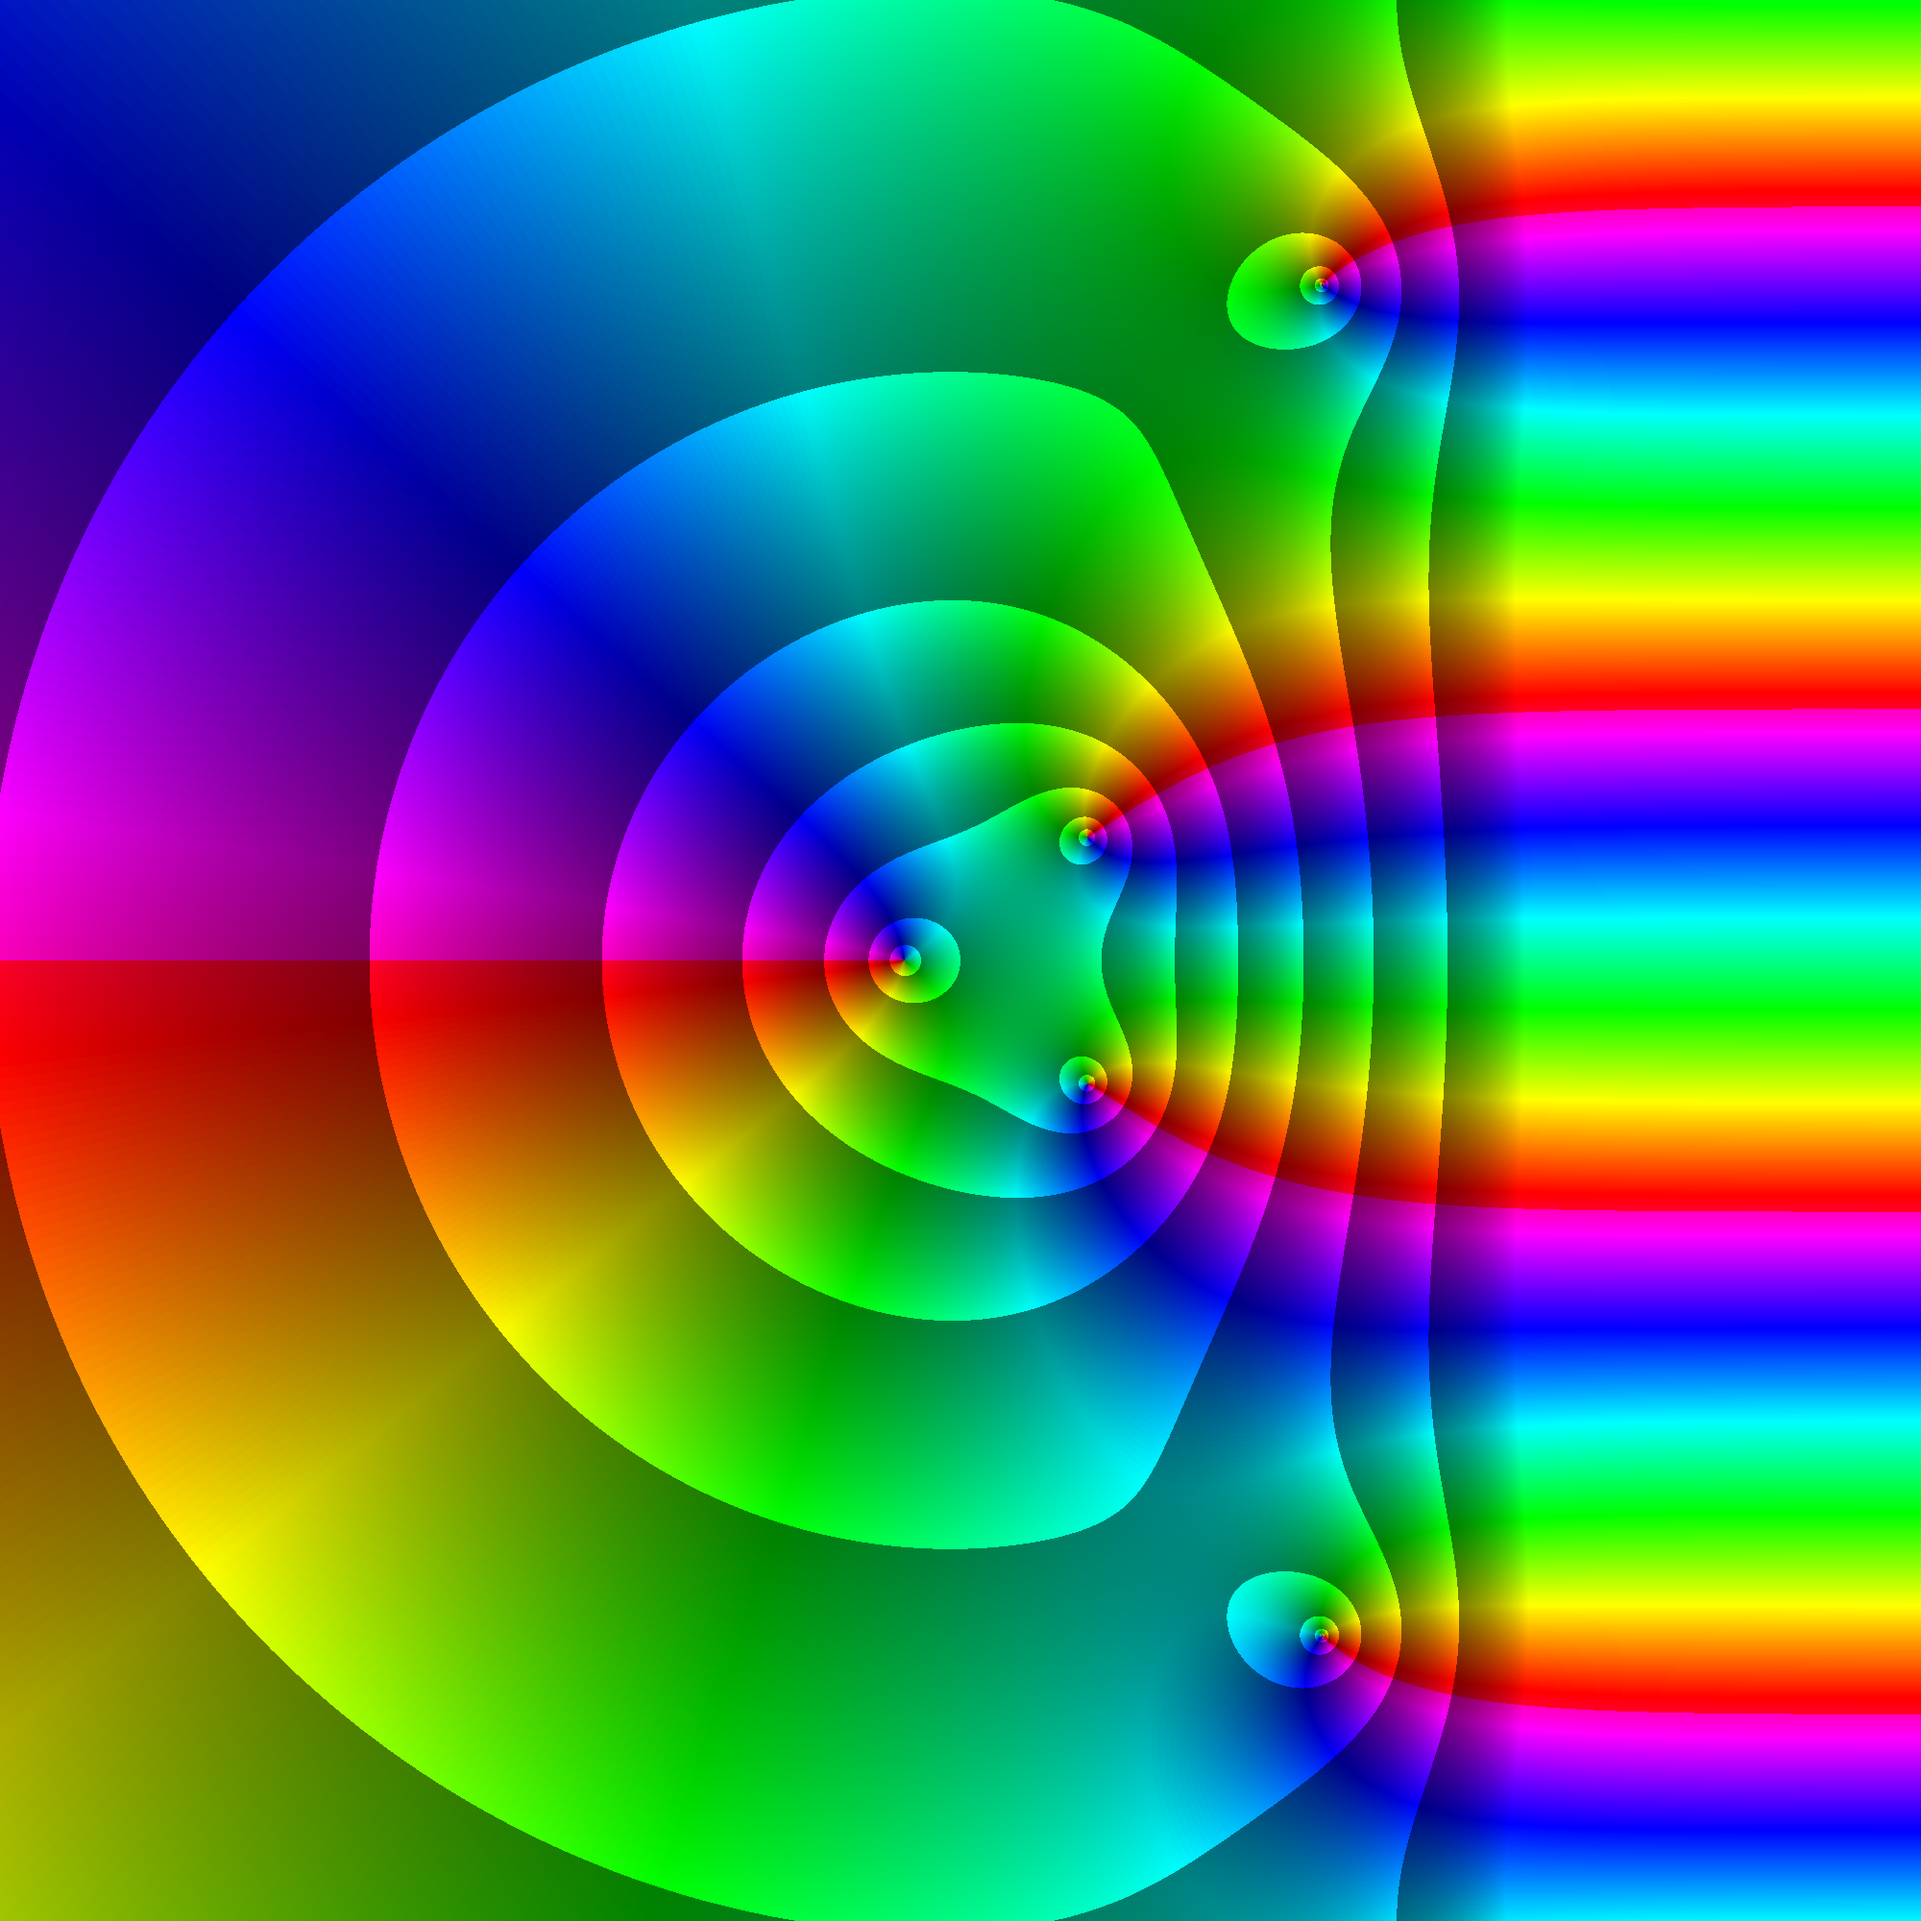
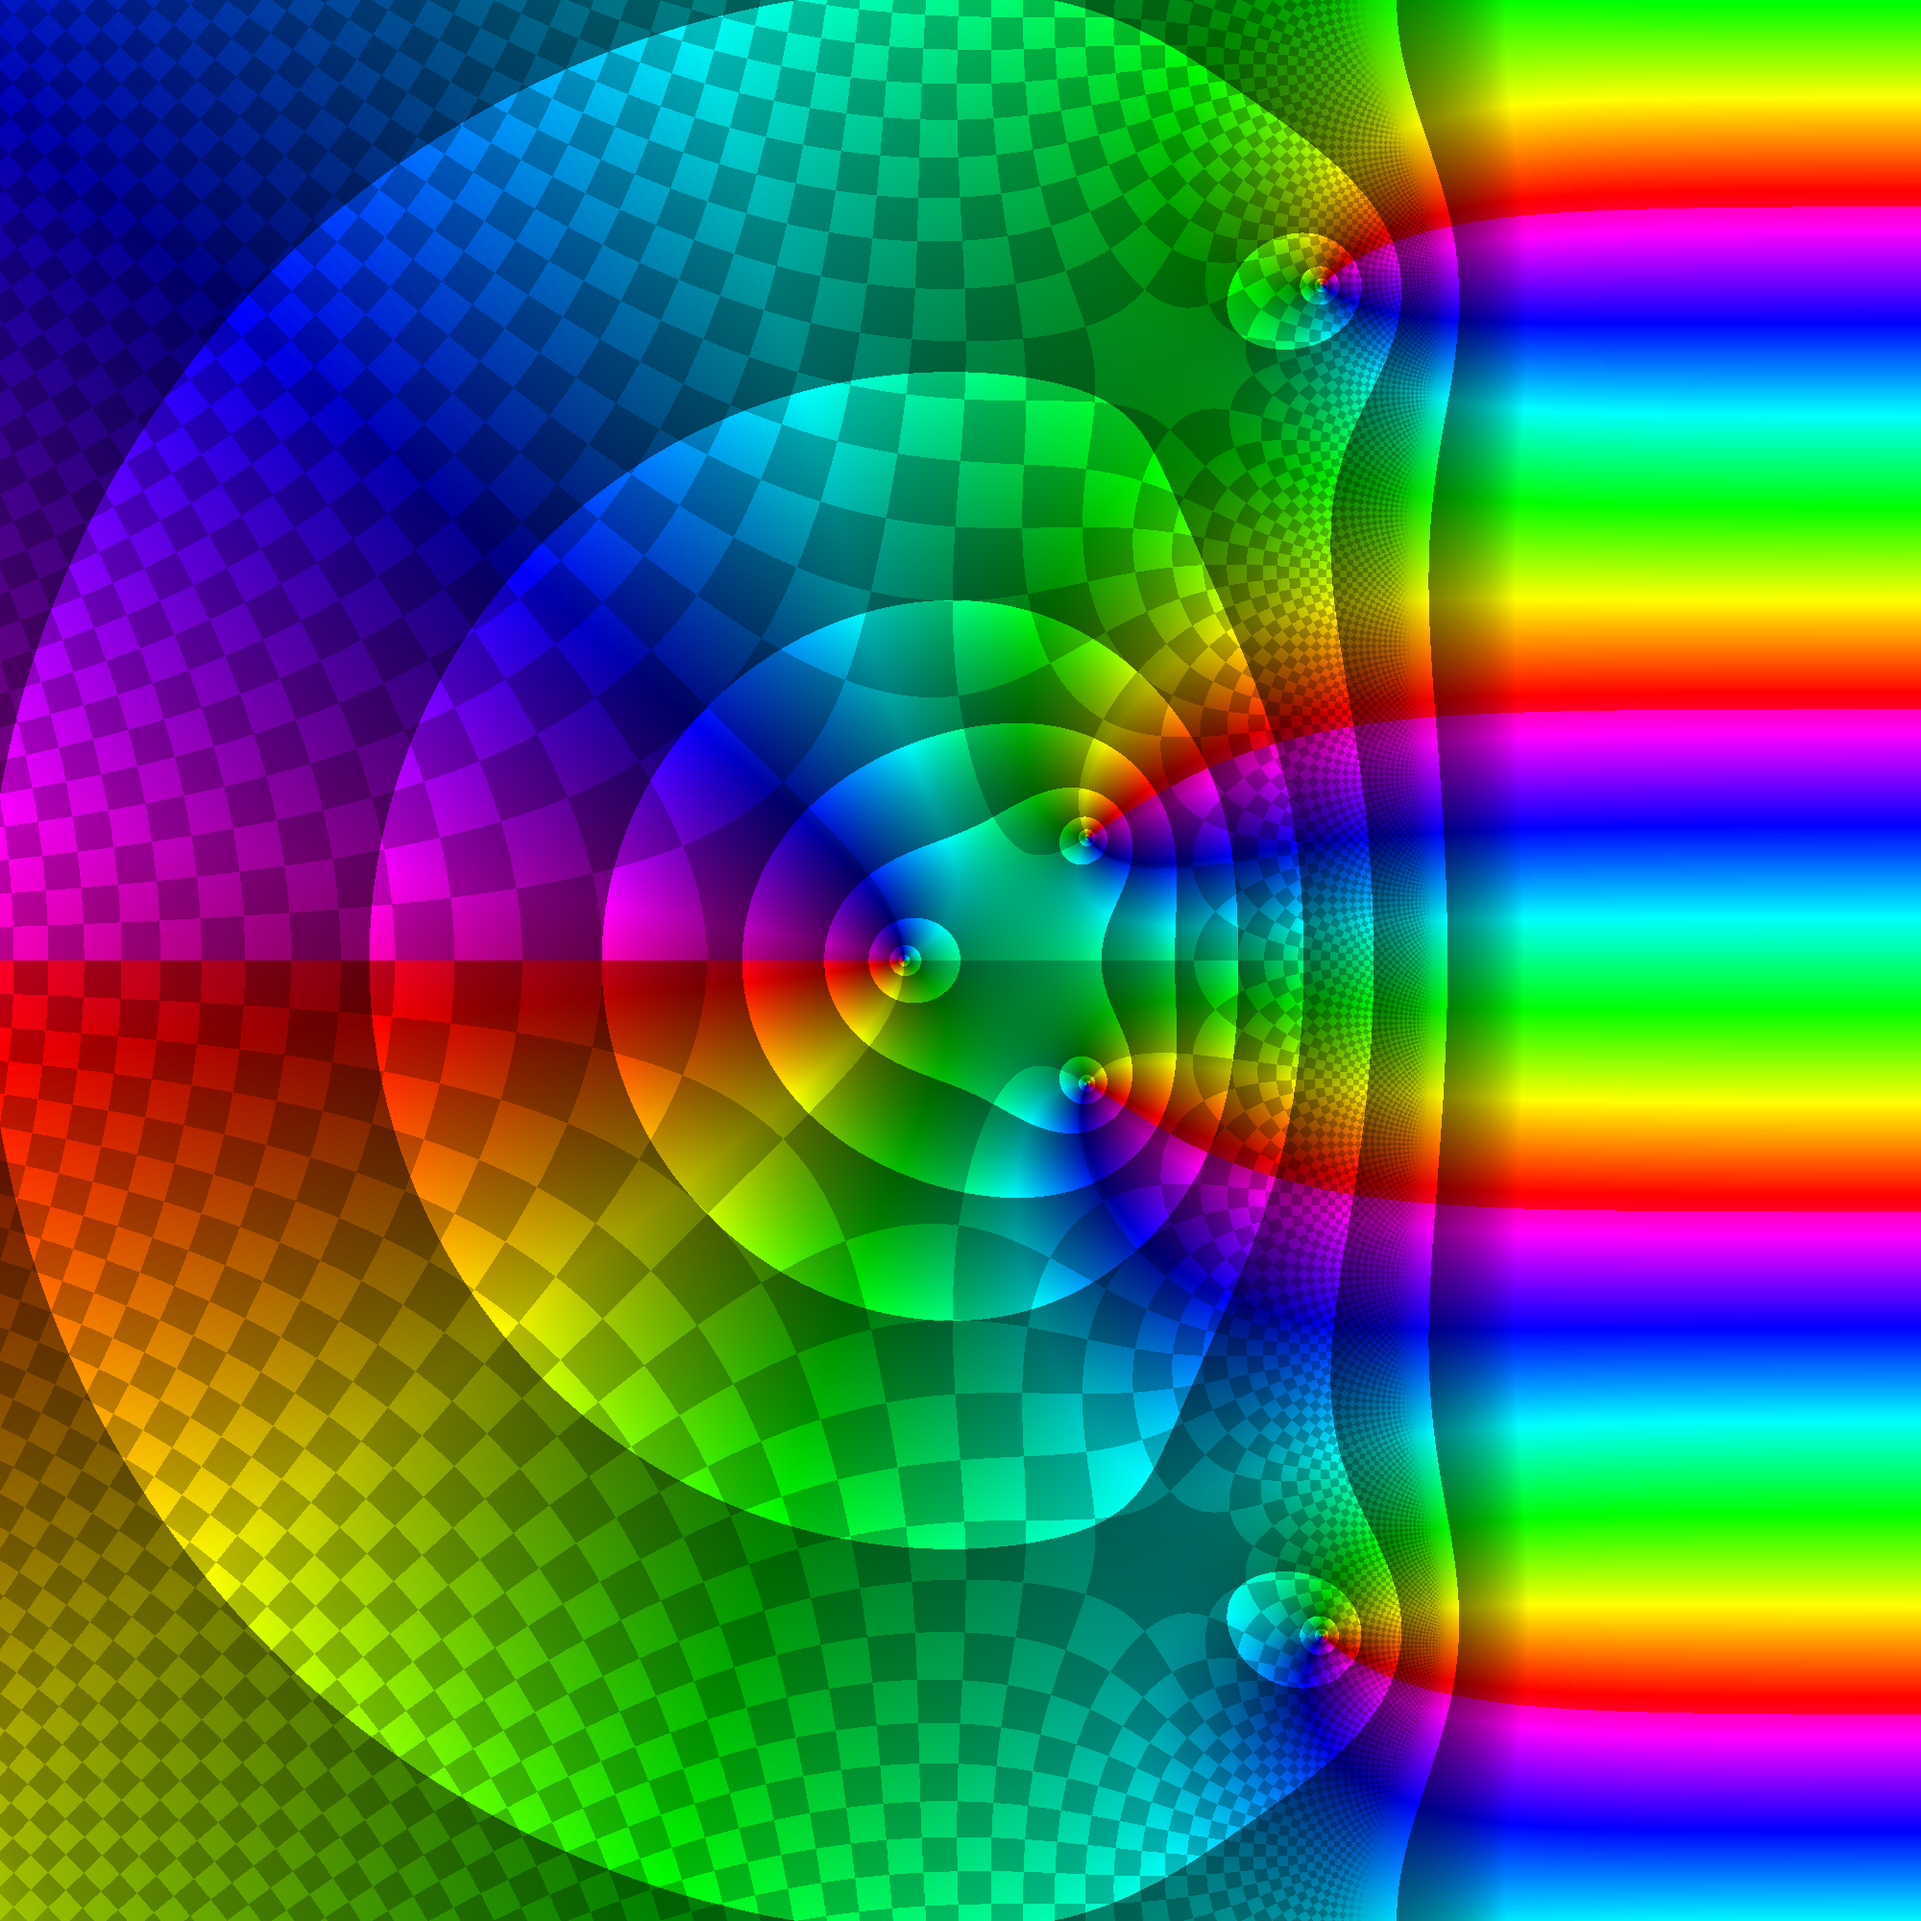
Finish new feature

diff --git a/complex_plot.py b/complex_plot.py
@@ -44,14 +44,16 @@ def normalize_brightness(abs_val, levels, min_v=0.1):
 	return np.clip(v, 0, 1)
 
 # The main function. Plots the given function and exports it to a PNG
-def export_with_custom_cmap(
+def complex_plot(
 		f, # The function
 		levels, # The levels of absolute values that define the brightness discontinuities
 		cmap_name='viridis',
 		filename="complex_data.png",
 		xrange=(-12, 12),
 		yrange=(-12, 12),
-		res=2000, # Number of points on each coordinate
+		savefig = True, # Save the resulting picture or not
+		res=2000, # Number of points on each coordinate,
+		min_v = 0.5, # Minimum brightness
 		grid_mapping = True, # Yes or no to gridmapping. The grid_* params are not used if this is false.
 		grid_spacing=10.0, # Size of the squares of the grid mapping
 		grid_opacity=0.5, # The grid mapping is a "checkerboard" pattern on top of the plot, so adjusting opacity is good
@@ -79,7 +81,7 @@ def export_with_custom_cmap(
 	base_rgb = base_rgba[..., :3] # Strip alpha
 	
 	# Modulate brightness and get leveled brightness mask
-	v = normalize_brightness(np.abs(W), levels, min_v=0.5)
+	v = normalize_brightness(np.abs(W), levels, min_v=min_v)
 	
 	# Apply brightness: multiply the RGB colors by the brightness mask
 	# We add an axis to v so it broadcasts across (res, res, 3)
@@ -100,7 +102,7 @@ def export_with_custom_cmap(
 		
 		# Gridmapping with artifact prevention: when f(z) explodes, generally at infinity or around a pole, its
 		# absolute value is such that the squares of the gridmapping fall below the pixel resolution, creating a noisy blurry artifact.
-		# This defines a threshold for where the grid starts to look "noisy enough", as a fraction of the highest level defined.
+		# This defines a threshold for where the grid starts to look "noisy enough" to ignore, as a fraction of the highest level defined.
 		# This probably will need some tuning to look good, and is tied to the highest level or the resolution of exporting.
 		high_mag_threshold = np.max(levels) * grid_threshold
 		
@@ -118,7 +120,7 @@ def export_with_custom_cmap(
 		final_rgb = (1 - effective_opacity) * final_rgb + (effective_opacity * grid_rgb)
 	
 	# Save and show
-	plt.imsave(filename, final_rgb, origin='lower')
+	if savefig: plt.imsave(filename, final_rgb, origin='lower')
 	
 	fig, ax = plt.subplots()
 	ax.imshow(final_rgb, extent=[*xrange, *yrange], origin='lower', interpolation='lanczos')
@@ -139,8 +141,9 @@ def generate_latex_colormap(cmap_name, samples=256):
 	print("	}\n}")
 
 # Example execution
-levels = generate_log_levels(-1, 8, np.e)
+levels = generate_log_levels(-2,8,np.e)
 cmap = 'gist_rainbow'
-export_with_custom_cmap(lambda z: np.exp(np.conj(z)) - z**2, levels, res=2000, xrange=(-12,12),yrange=(-12,12), cmap_name=cmap,grid_mapping = True, grid_threshold=0.3)
+complex_plot(lambda z: np.exp(np.conj(z)) - z**2, levels, res=2000, xrange=(-12,12),yrange=(-12,12), cmap_name=cmap,grid_mapping = True, grid_threshold=0.3)
 
+# Exports the colormap
 generate_latex_colormap(cmap)

diff --git a/readme.md b/readme.md
@@ -10,7 +10,7 @@ The second trick is plotting the argument of f(z) as a hue. The hue colors can b
 
 These two "tricks" were based on the [website by Samuel Li](https://samuelj.li/complex-function-plotter) which source code can be found [here](https://github.com/wgxli/complex-function-plotter) and on the [Wikipedia page for Domain Coloring](https://en.wikipedia.org/wiki/Domain_coloring). The links were last accessed on april 22, 2026.
 
-## Where to use this
+## Where and how to use this
 
 This script should not be used as an interactive plotter. If you want that, you are probably better off using the website rather than this script: it will take at least a couple seconds and, given enough points in the mesh, hours (do not ask me how I know). While I did not use any source code from Samuel's repositoryool, it uses the GNUPLv3, so if Python or LaTeX are not your cup of coffee and you just want to look at pretty plots you are again better off using his website. As beforesaid I wrote this tool for a quite specific application of writing academic papers and theses, to focus on visualization of complex-variable functions. And yes, as you have already probably noticed I have the weirdest procrastinations that include numerical complex analysis and software development.
 
@@ -18,9 +18,15 @@ This repository, its code and assets are licensed under the [Creative Commons At
 
 There are a ton of options the script gives but I do not have time (or inclination) to write documentation, so read the code I guess. Or reach out. The options should be fairly self-explanatory.
 
+## Grid mapping
+
+The script adds the option to add a grid or domain mapping. This helps seeing how the function alters the domain geometry, treating the complex domain as a flexible sheet that f(z) streches, rotates and twists the space. This mapping is defined as a cartesian grid in a "checkerboard" pattern of alternating gray and white squares; this also allows to see the pre-image of the squares by f(z).
+
+This feature has lots of parameters that should be played with to look good. For instance, if the squares become too small they form noisy patterns and aliasing artifacts, so the function takes threshold and brightness adjustment parameters. There is also the option of turning grid mapping off.
+
 ## LaTeX integration
 
-The script will show the plot and save it to an image "complex_data.png". If it already exists the script will overwrite; so if you like the picture you generated be sure to save it before running the script again. If you want to integrate this into LaTeX, you need to save that image file to import it into your document using pgfplots. The folder `latex_application` shows a minimal working example (MWE) of how to do that, with a LaTeX application of the plots generated using pgfplots and TikZ, which are quite powerful, so you can tune it to your liking. The MWE includes a colorbar for the phase hue, and a grid. To see the immediate results of that code, hop into the folder and type `make pdf`, which will use the bash script included to generate the final file for you in a `build` folder. Again, if you use snippets from that code please cite this repository.
+By default, the script will show the plot and save it to an image "complex_data.png". If you do not want to save, run the main function with `savefig = False`. If however you set it to true (or leave it unset, because `True` is the default) and the image already exists the script will overwrite; so if you like the picture you generated be sure to save it before running the script again. If you want to integrate this into LaTeX, you need to save that image file to import it into your document using pgfplots. The folder `latex_application` shows a minimal working example (MWE) of how to do that, with a LaTeX application of the plots generated using pgfplots and TikZ, which are quite powerful, so you can tune it to your liking. The MWE includes a colorbar for the phase hue, and a grid. To see the immediate results of that code, hop into the folder and type `make pdf`, which will use the bash script included to generate the final file for you in a `build` folder. Again, if you use snippets from that code please cite this repository.
 
 # Regarding colormaps
 
@@ -51,11 +57,24 @@ and then do `\input{mycolormap.tex}`.
 
 All examples generated using the `gist_rainbow` colormap as defined above.
 
-	f(z) = exp(conj(z)) - z^2, z in [-12,12] x [-12,12]
+	# f(z) = exp(conj(z)) - z^2, z in [-12,12] x [-12,12]
+	levels = generate_log_levels(-2,8,np.e)
+	cmap = 'gist_rainbow'
+	complex_plot(lambda z: np.exp(np.conj(z)) - z**2, levels, res=2000, xrange=(-12,12),yrange=(-12,12), cmap_name=cmap,grid_mapping = True, grid_threshold=0.3)
+
 ![](images/expconjz_minus_zsquared.png)
 
-	f(z) = exp(z) - z^2, z in [-12,12] x [-12,12]
+	# f(z) = exp(z) - z^2, z in [-12,12] x [-12,12]
+	levels = generate_log_levels(-2,8,np.e)
+	cmap = 'gist_rainbow'
+	complex_plot(lambda z: np.exp(z) - z**2, levels, res=2000, xrange=(-12,12),yrange=(-12,12), cmap_name=cmap,grid_mapping = True, grid_threshold=0.3)
 ![](images/expz_minus_zsquared.png)
 
-	And my favourite trippy one f(z) = sin(1/z), z in [-0.5,0.5] x [-0.5,0.5]
+And my favourite trippy one
+
+	# f(z) = sin(1/z), z in [-0.5,0.5] x [-0.5,0.5]
+	levels = generate_log_levels(-20, 200, 2)
+	cmap = 'gist_rainbow'
+	complex_plot(lambda z: np.sin(1/z), levels, res=2000, xrange=(-0.5,0.5),yrange=(-0.5,0.5), cmap_name=cmap,grid_mapping = True, grid_threshold=3e-59,grid_brightness=0.1, grid_spacing=1)
+
 ![](images/sin_invz.png)
